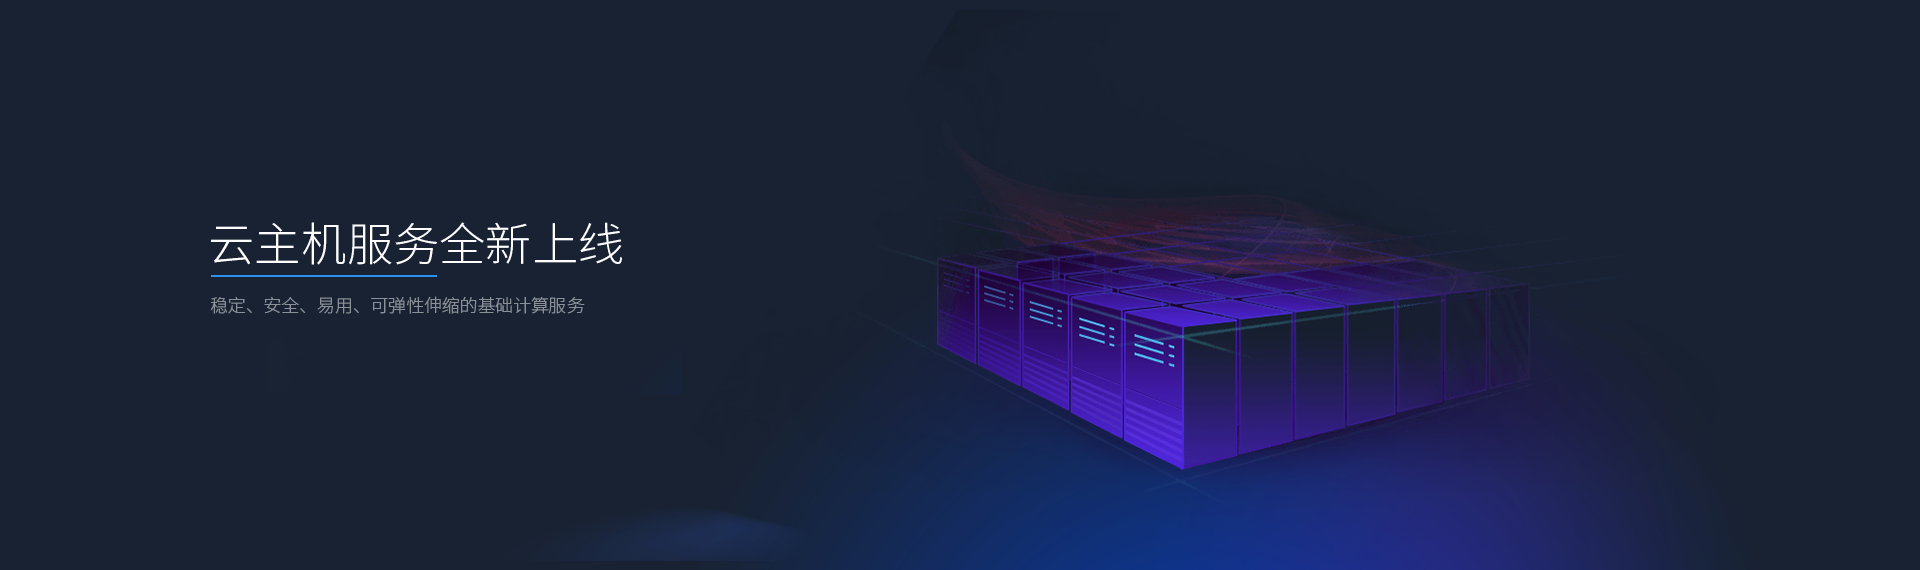
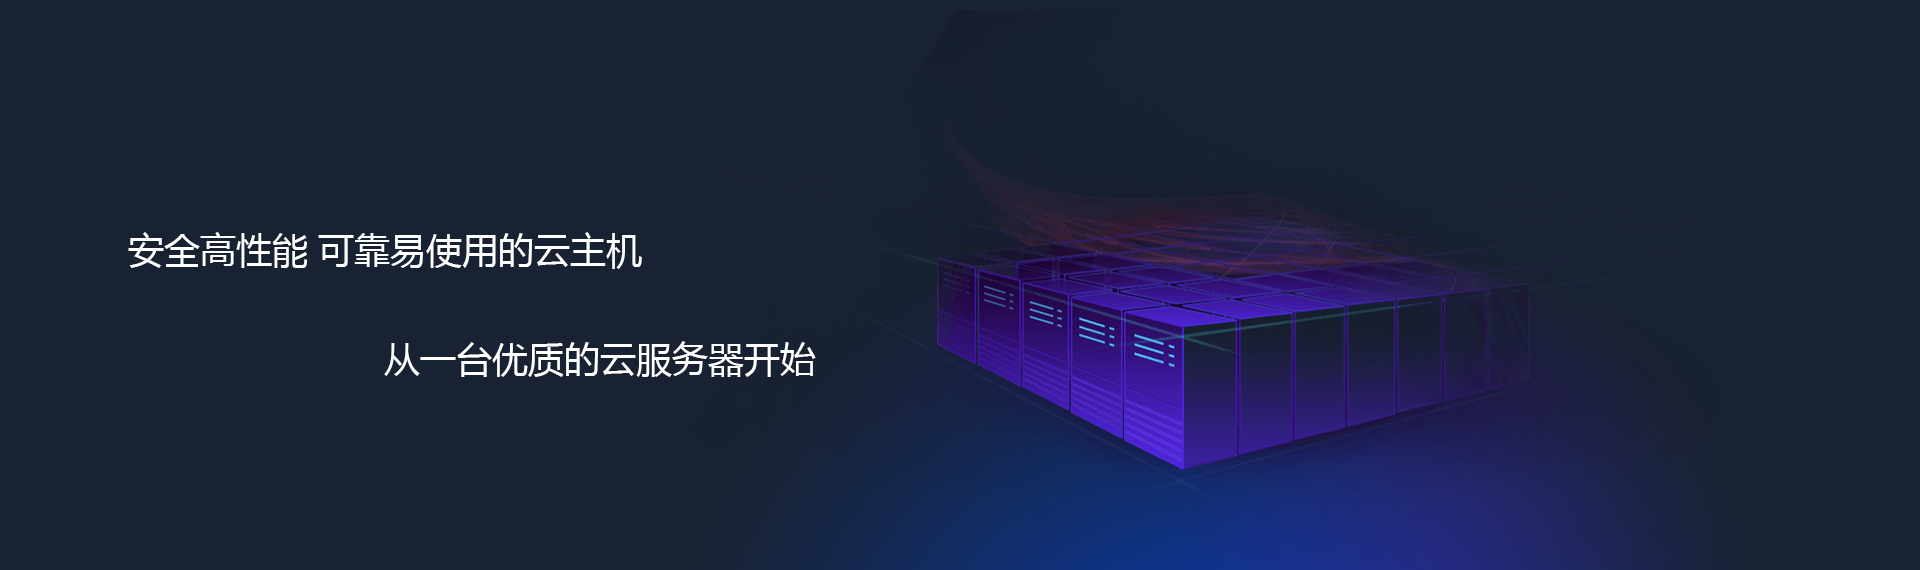
修改主页banner图 修改跳登陆购买 未添加local strong 修改IE chrome不兼容的主页视频播放 并解决初始静音 因为class 重名 被click()

Changed region(s): [[0.0625, 0.3877, 0.3438, 0.5667], [0.1875, 0.5965, 0.4375, 0.6561], [0.3438, 0.8947, 0.4062, 0.9842]]

diff --git a/templates/test1.html b/templates/test1.html
@@ -1,13 +1,50 @@
 <!doctype html>
-<html lang="en">
+<html lang="en" style="width: 100%;height: 100%;">
 <head>
     <meta charset="UTF-8">
     <meta name="viewport"
           content="width=device-width, user-scalable=no, initial-scale=1.0, maximum-scale=1.0, minimum-scale=1.0">
     <meta http-equiv="X-UA-Compatible" content="ie=edge">
+    <link rel="stylesheet" href="/static/assets/css/public/video-js.min.css">
     <title>Document</title>
+    <style>
+        .video_close {
+            width: 30px;
+            height: 30px;
+            line-height: 30px;
+            text-align: center;
+            font-size: 30px;
+            color: #fff;
+            z-index: 10000;
+            position: fixed;
+            top: 10px;
+            right: 15px;
+{#            display: none;#}
+            cursor: pointer;
+        }
+    </style>
 </head>
-<body>
-    {{ data }}
+<body style="width: 100%;height: 100%;">
+<button class="bar">按钮</button>
+<span class="video_close">×</span>
+    <video id="my-player" class="video-js vjs-default-skin vjs-big-play-centered" controls preload="auto" data-setup="{}" style="">
+        <source type="video/mp4" src="/static/assets/video/trailer.mp4">
+        <p class="vjs-no-js">不支持播放</p>
+    </video>
+<!--[if lt IE9]>
+  	<script src="/static/assets/js/public/videojs-ie8.min.js"></script>
+<![endif]-->
+    <script src="/static/assets/js/public/jquery.min.js"></script>
+    <script src="/static/assets/js/public/video.min.js"></script>
+    <script>
+        var options = {autoplay: true};
+        $('.bar').click(function(){
+            var player = videojs("my-player", options, function onPlayerReady() {
+                this.play();
+                this.enterFullWindow();
+            });
+{#            $('.vjs-button').click();#}
+        });
+    </script>
 </body>
 </html>

diff --git a/static/assets/js/index/home.js b/static/assets/js/index/home.js
@@ -149,31 +149,30 @@ $(function () {
         }, 200);
     });
     var a = null;
+    var options = {autoplay: true, muted: false};
     $('.video_link').click(function () {
-        $('#my-player').css({
-            "width": "100%",
-            "height": "100%"
-            // "display": "block"
-        });
         $(this).hide();
         $('.cha').show();
-        var options = {autoplay: true};
+        $('#my-player').css({
+            "width": "100%",
+            "height": "100%",
+            "display": "block",
+            'z-index': "2"
+        });
         var player = videojs("my-player", options, function onPlayerReady() {
             this.src('/static/assets/video/trailer.mp4');
             this.play();
             this.enterFullWindow();
             a = player;
         });
-        $('.vjs-button').click();
+        $('.vjs-fullscreen-control').click();
     });
     $('.cha').click(function () {
         $(this).hide();
         $('.video_link').show();
         a.pause();
         $('#my-player').css({
-            "width": "0",
-            "height": "0"
-            // "display": "none"
+            'display': 'none'
         });
     });
 });

diff --git a/static/assets/css/index/update.css b/static/assets/css/index/update.css
@@ -1,3 +1,7 @@
+html, body{
+    width: 100%;
+    height: 100%;
+}
 body {
     font-family: 'helvetica neue',PingFangSC-Light,arial,'hiragino sans gb','microsoft yahei ui','microsoft yahei',simsun,sans-serif;;
 }
@@ -171,7 +175,7 @@ body {
 }
 
 .mapWapper .point-area:nth-child(5):after {
-    animation-delay: 1;
+    animation-delay: 1s;
 }
 
 .mapWapper .point-area:nth-child(6):after {
@@ -209,16 +213,25 @@ body {
     display: none !important;
 }
 
-.video-js {
-    width: 0;
-    height: 0;
+/*.video-js {*/
+    /*width: 0;*/
+    /*height: 0;*/
+/*}*/
+
+#my-player {
+    position: fixed;
+    top: 0;
+    left: 0;
+    z-index: -1;
 }
 
-/*#my-player {*/
-    /*position: fixed;*/
-    /*top: -20000px;*/
-    /*left: -20000px;*/
-/*}*/
+.section{
+    position: relative;
+    top: 0;
+    left: 0;
+    z-index: 2;
+    background: #fff;
+}
 
 /*后期添加的user_session*/
 /*.user_session_list{*/

diff --git a/templates/index.html b/templates/index.html
@@ -61,7 +61,7 @@
                     <span></span>
                 </li>
                 <li>
-                    <a href="javascript:void(0)">产品</a>
+                    <a href="/create_instance/">产品</a>
                     <span></span>
                 </li>
                 <li>
@@ -642,9 +642,8 @@
         </div>
     </section>
 
-    <span class="fa fa-close cha"></span>
-    <video id="my-player" class="video-js vjs-default-skin vjs-big-play-centered" controls preload="auto"
-           data-setup="{}" style=""></video>
+    <span class="cha">x</span>
+    <video id="my-player" class="video-js vjs-default-skin vjs-big-play-centered" controls preload="auto" data-setup="{}"></video>
 </main>
 
 <script src="/static/assets/js/index/jquery-2.2.0.min.js"></script>

diff --git a/templates/create_instance.html b/templates/create_instance.html
@@ -168,7 +168,7 @@
                         <span id="price">￥151</span>
                     </div>
                     <div class="buyBtn">
-                        <input type="submit" class="ljgm" value="立即购买">
+                        <input type="submit" class="ljgm" value="立即申请">
                     </div>
                 </div>
             </form>

diff --git a/vcloudapp/views.py b/vcloudapp/views.py
@@ -179,16 +179,17 @@ def order(request):
 
 # 创建实例跳转
 def create_instance(request):
-    o = logined(request)
-    if not o:
-        return HttpResponseRedirect('/login/')
+    # o = logined(request)
+    # if not o:
+    #     return HttpResponseRedirect('/login/')
     network = Network.objects.values()
-    obj = {}
-    arr = []
-    obj['windows'] = ['win1', 'win2', 'win3']
-    obj['linux'] = ['lin1', 'lin2', 'lin3']
-    arr.append(obj)
-    return render(request, 'create_instance.html', context={'network': list(network), 'data': list(arr)})
+    # obj = {}
+    # arr = []
+    # # obj['windows'] = ['win1', 'win2', 'win3']
+    # # obj['linux'] = ['lin1', 'lin2', 'lin3']
+    # arr.append(obj)
+    # return render(request, 'create_instance.html', context={'network': list(network), 'data': list(arr)})
+    return render(request, 'create_instance.html', context={'network': list(network)})
 
 
 # 创建订单
@@ -327,6 +328,7 @@ def order_finished(request):
     return render(request, 'order_finished.html', context={'finish': topics, 'power': power, 'dept': dept})
 
 
+# 审核完成
 def finished(request):
     pid = request.POST.get('_id')
     _status = request.POST.get('_status')
@@ -424,8 +426,10 @@ def checkLogin(request):
 
 
 # 创建实例接口
-# 防止页面403不提交引入 csrf
 def chkcreate_instance(request):
+    o = logined(request)
+    if not o:
+        return render(request, 'login.html', context={'err': '请先登录后再申请！'})
     ins_name = request.POST.get('instance_name', None)
     sameName = Instances.objects.filter(name=ins_name)
     # 获取所在部门
@@ -540,7 +544,6 @@ def calculatePrice(request):
 
 
 # 获取日志信息
-# @JSON(format="yyyy-MM-dd HH:mm:ss")
 def accessLog(request):
     username = request.session.get('username')
     data = Log.objects.filter(log_user=username).order_by('-log_user', '-log_type', '-log_detail', '-log_ip',
@@ -777,7 +780,7 @@ def dept_list(username):
 
 # 测试1
 def test1(request):
-    return HttpResponseRedirect('/test2/')
+    return render(request, 'test1.html')
 
 
 # 测试2
